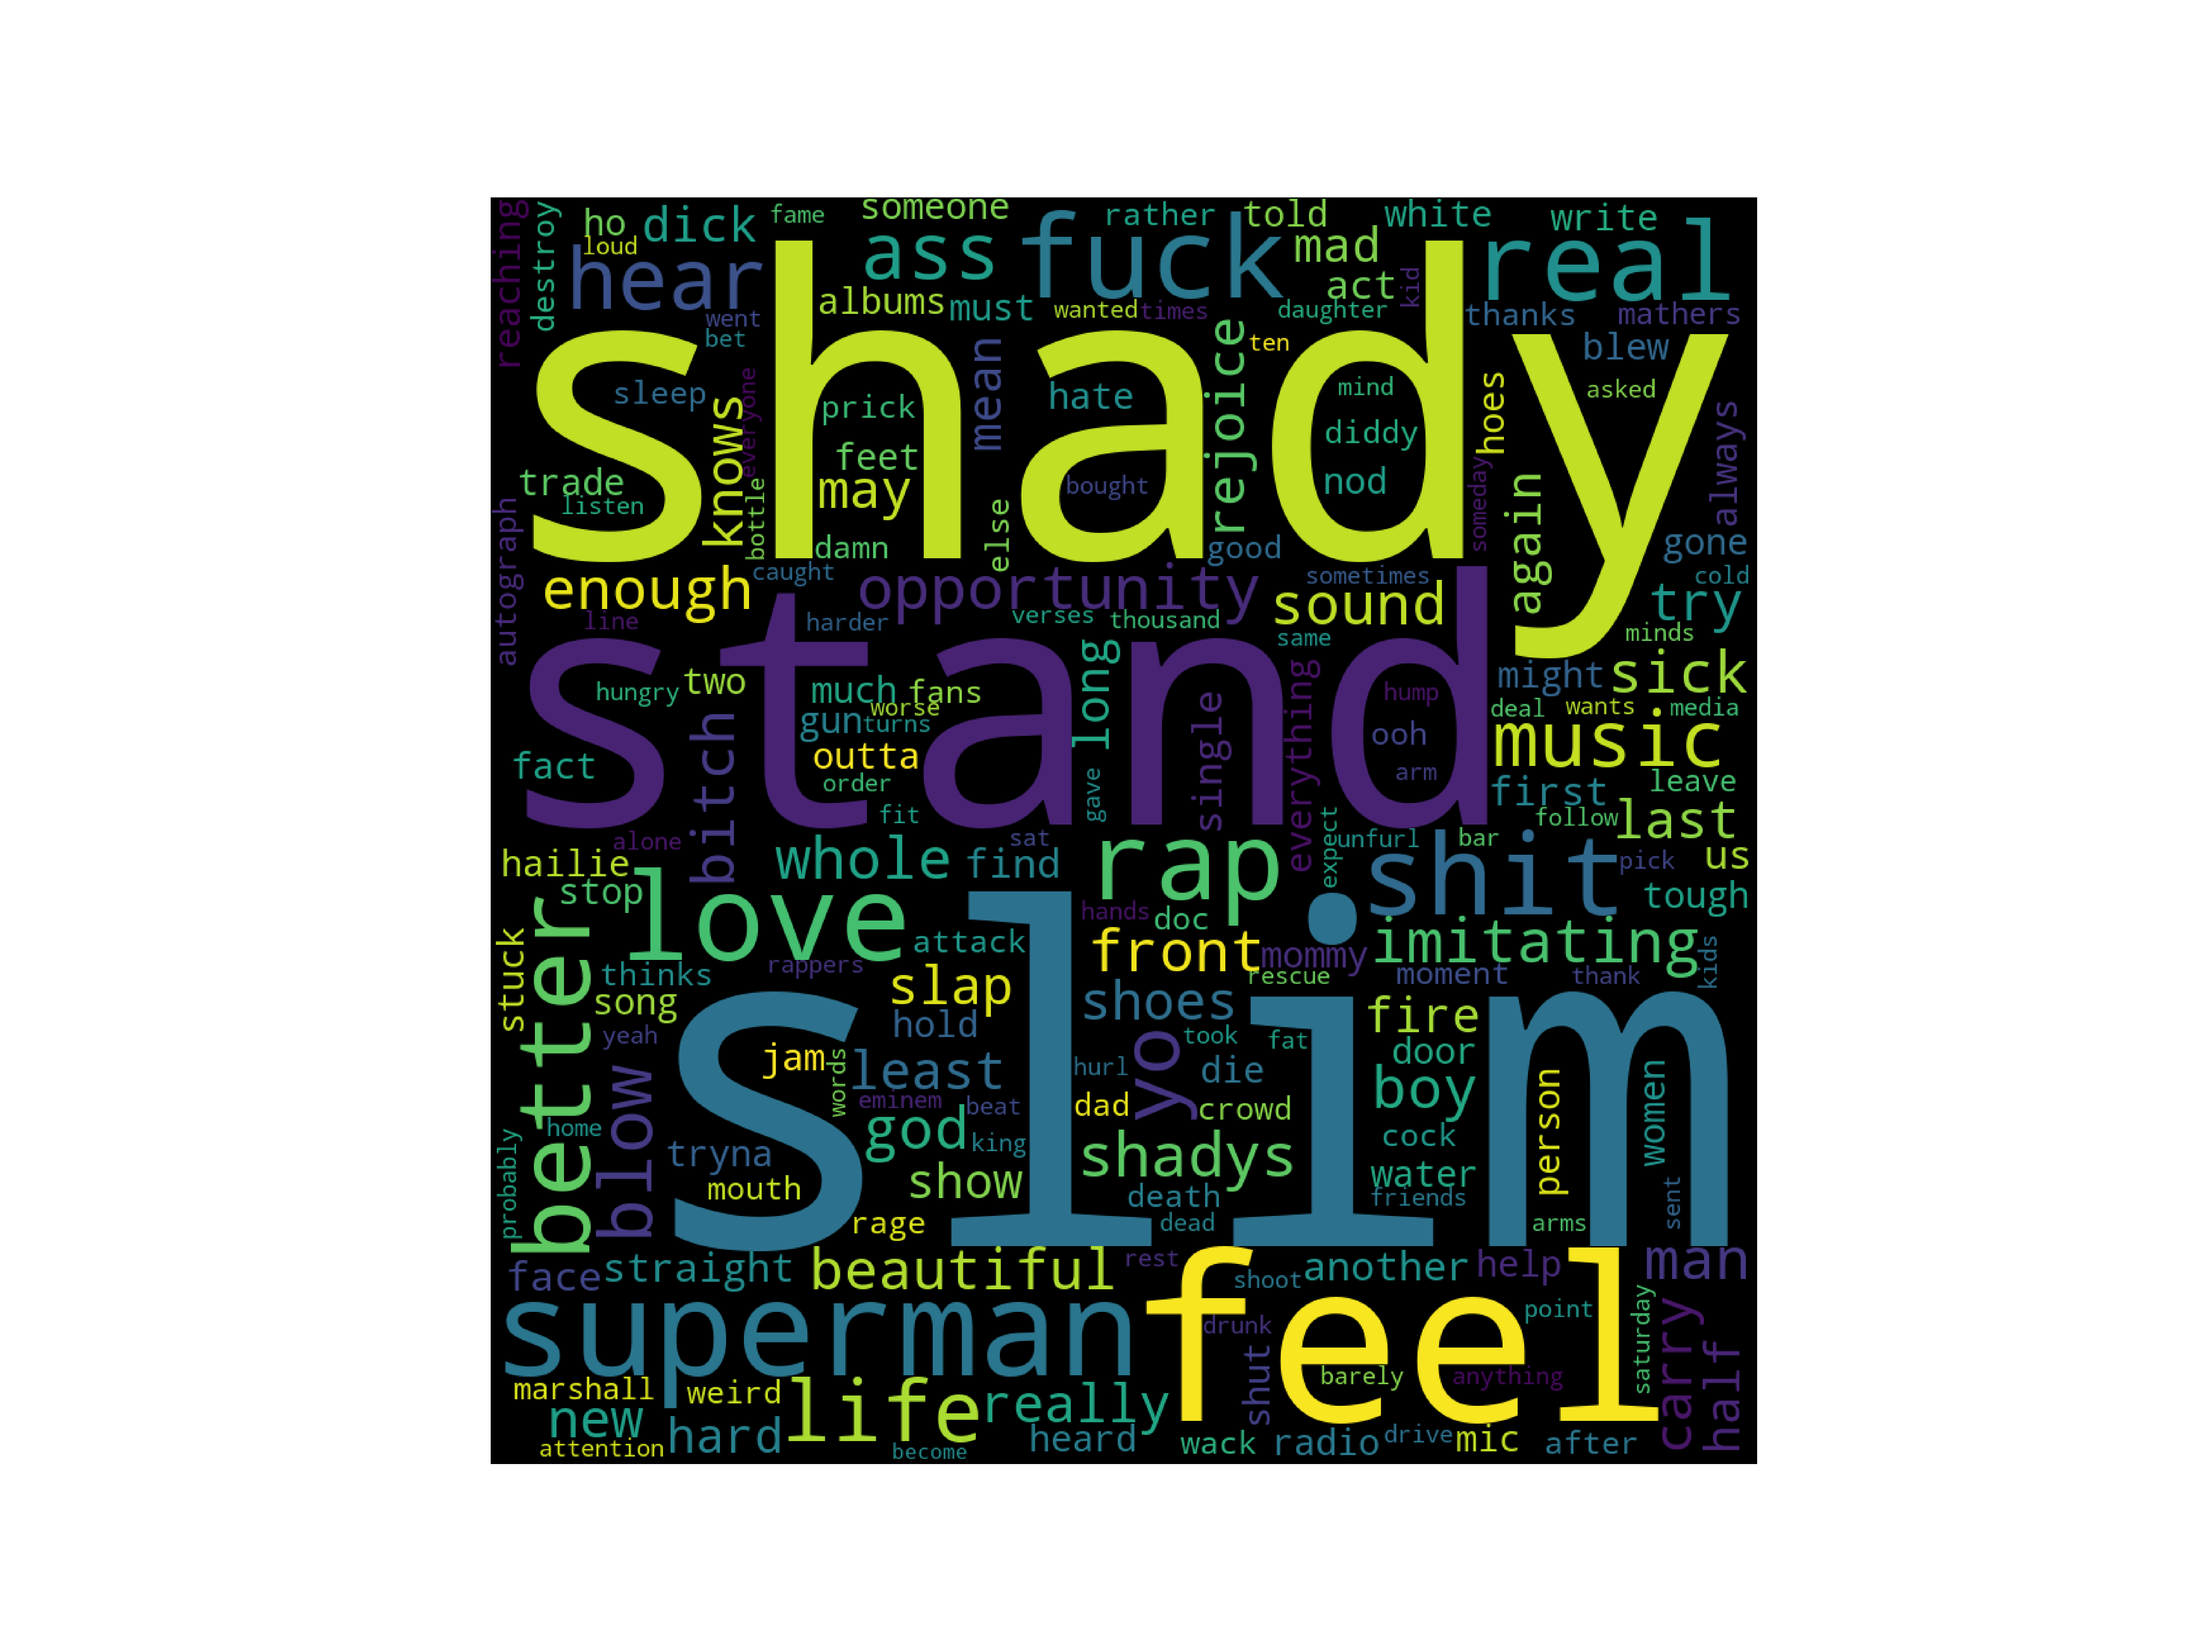
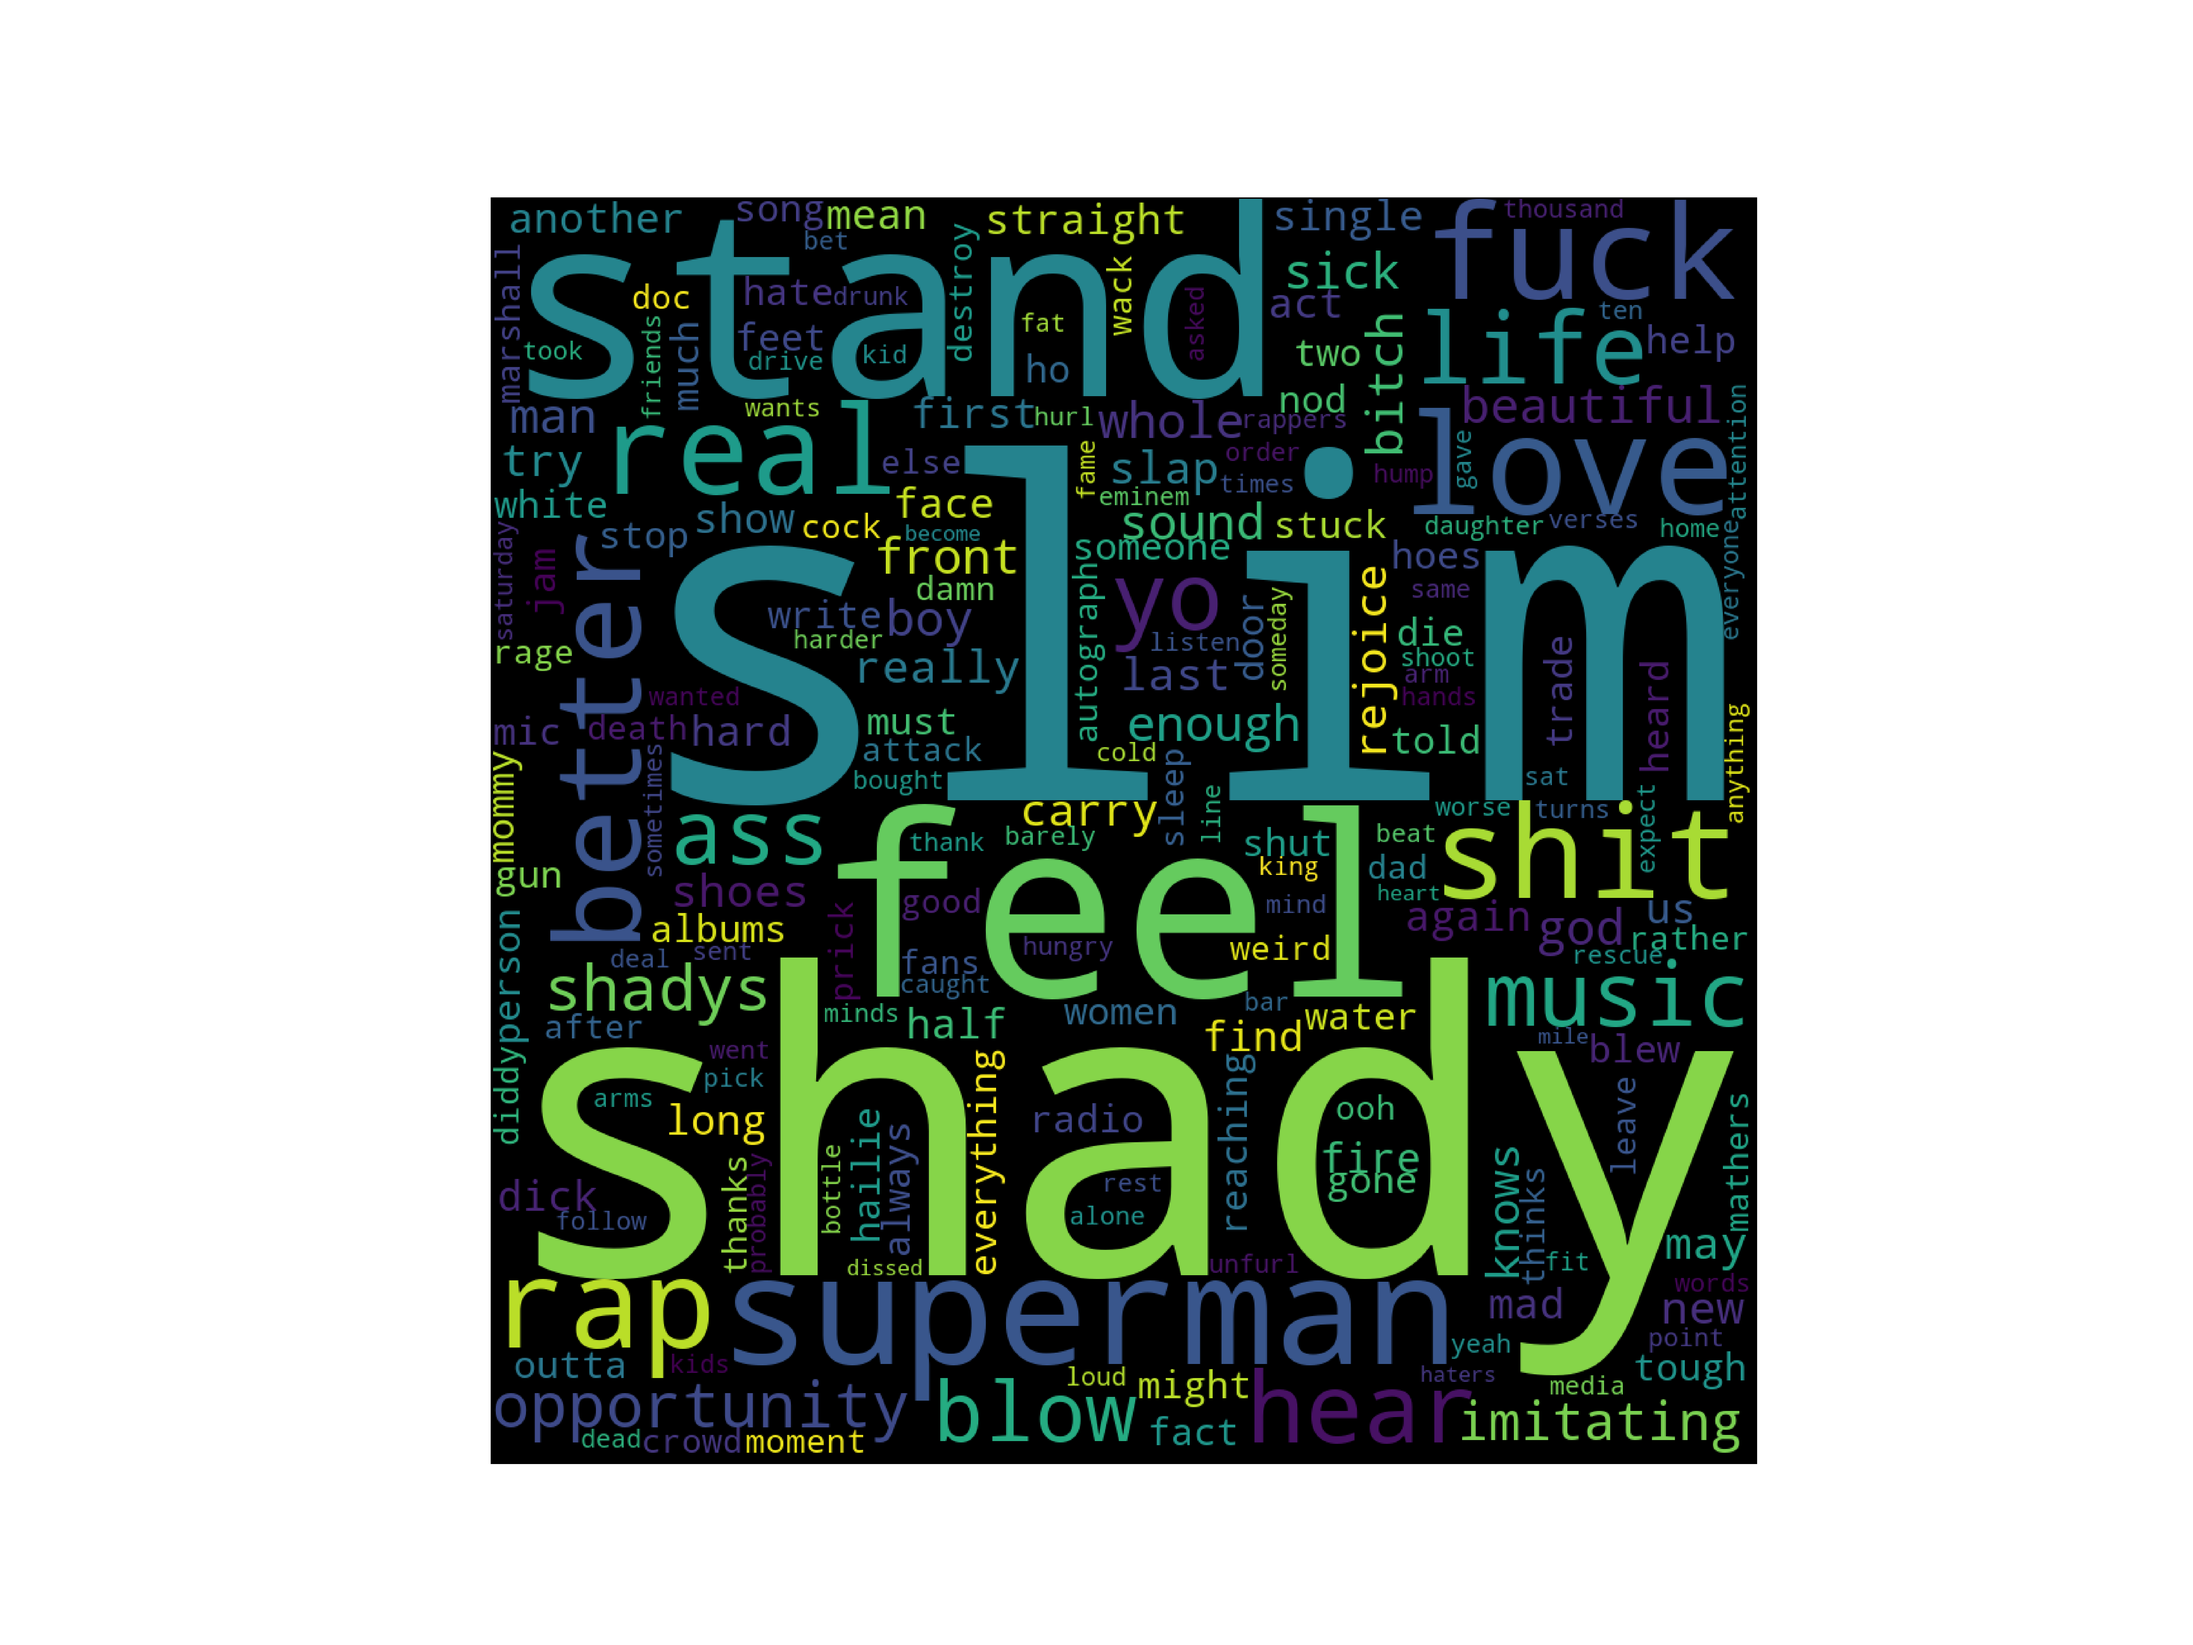
Added to the uninteresting_words list

Changed region(s): [[0.2188, 0.125, 0.8125, 0.9062]]

diff --git a/WordCloudProject/WordCloud.py b/WordCloudProject/WordCloud.py
@@ -36,7 +36,7 @@ def calculate_frequencies(file_contents):
                            "everybody", "big", "full", "stay", "run", "true", "monday", "school", "over", "yes",
                            "whatever", "save", "since", "mine", "turn", "kiss", "eyes", "head", "yourself", "spit",
                            "buy", "chance", "hit", "there", "guess", "play", "myself", "said", "made", "comes",
-                           "should", "lil"]
+                           "should", "lil", "hold", "least", "mouth", "tryna"]
 
     punctuation_list = []
     for punctuation in punctuations:
